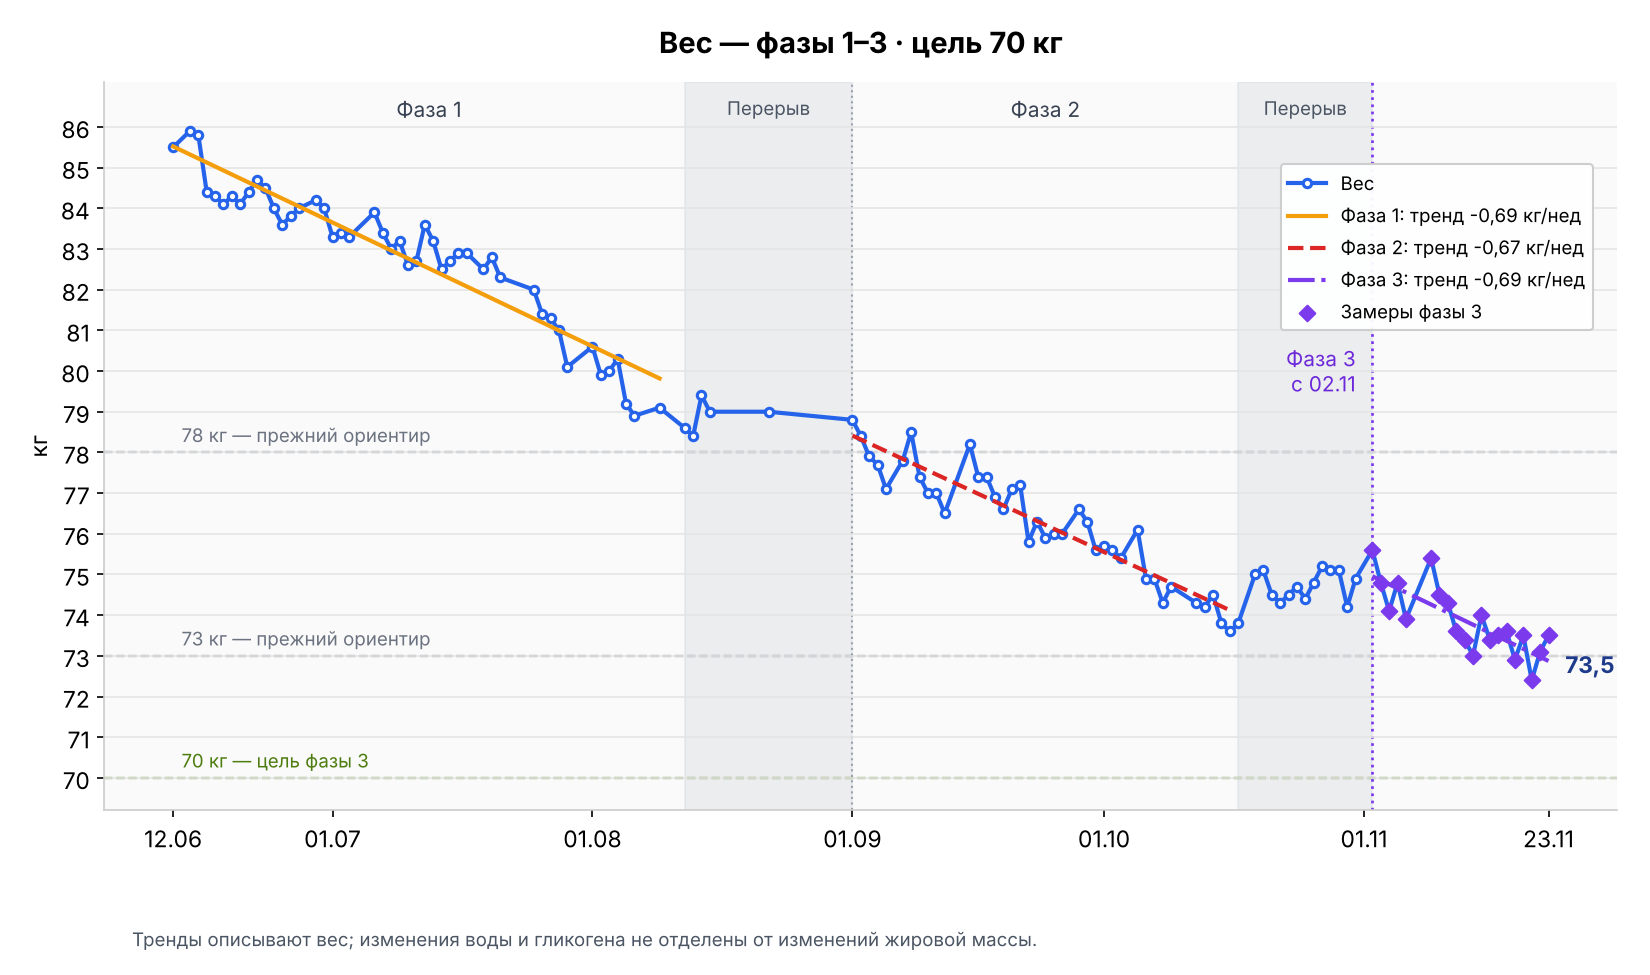
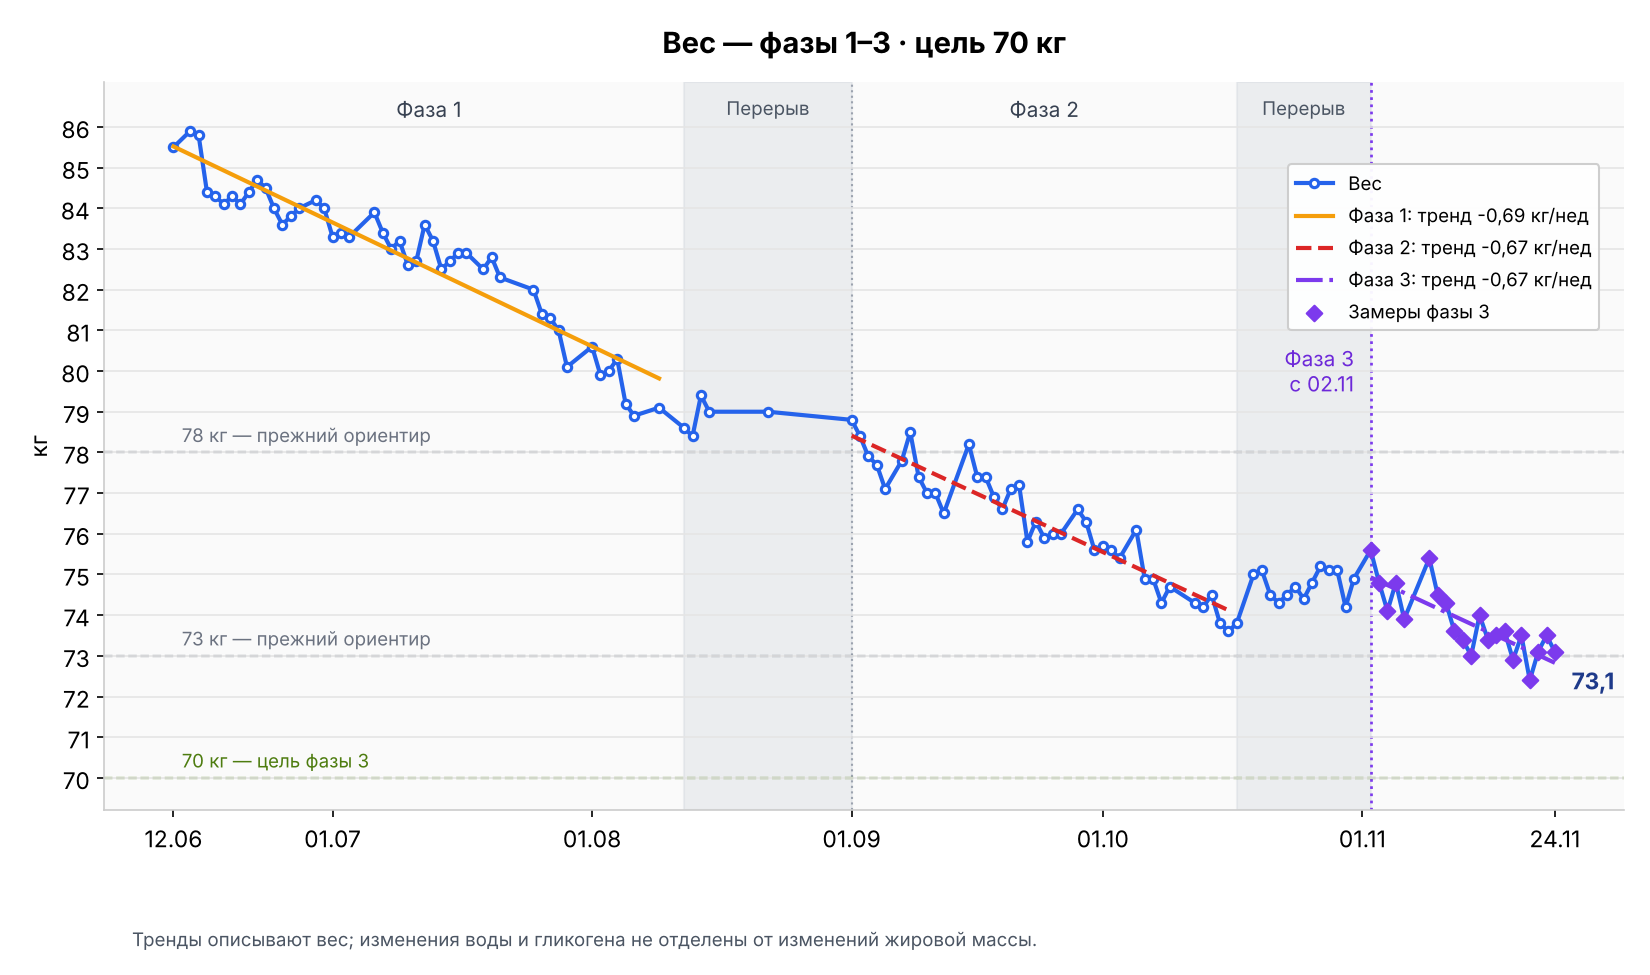
Вес 24.11: 73,1 кг; закрыт день 23.11
−0,4 кг к 23.11. День 23.11 отмечен завершённым (~1946 ккал).
Графики перестроены.

Claude-Session: https://claude.ai/code/session_01BcPogZpufV1jxrQv9Sbikk

diff --git a/health/журнал-еды.md b/health/журнал-еды.md
@@ -11,7 +11,7 @@
 
 | Дата | Кратко | Ккал | Белок |
 |---|---|---|---|
-| 23.11 (пн) | фаза 3, день 22 · цель 1900 ккал · утром 73,5 · завтрак курица с песто 200 г + яблоки 387 г + мандарины 125 г + молоко 2,5% 91 г + овощной микс 358 г / молоко 2,5% 57 г / обед мандарины 158 г + яблоки 244 г + апельсины 169 г + курица с песто 153 г + микс овощей 376 г / флэт уайт 250 мл на банановом молоке / ужин молоко 1% 115 г + куриное филе 200 г + овощная смесь 362 г / мандарины 132 г + яблоки 160 г (день идёт) | ~1946＋ | ~177＋ г |
+| 23.11 (пн) | фаза 3, день 22 · цель 1900 ккал · утром 73,5 · завтрак курица с песто 200 г + яблоки 387 г + мандарины 125 г + молоко 2,5% 91 г + овощной микс 358 г / молоко 2,5% 57 г / обед мандарины 158 г + яблоки 244 г + апельсины 169 г + курица с песто 153 г + микс овощей 376 г / флэт уайт 250 мл на банановом молоке / ужин молоко 1% 115 г + куриное филе 200 г + овощная смесь 362 г / мандарины 132 г + яблоки 160 г · день завершён, +46 к цели | ~1946 | ~177 г |
 | 22.11 (вс) | фаза 3, день 21 · цель 1900 ккал · утром 73,1 · 🏋 зал, спина + трицепс, средняя неделя · завтрак молоко 2,5% 76 г + апельсины 155 г + яблоки 278 г + хурма «Шарон» 186 г + куриное филе 224 г + брокколи и цветная капуста 333 г / молоко 2,5% 100 г + ещё 200 г / куриное филе 178 г / хурма 300 г / брокколи и цветная капуста 331 г / ужин молоко 2,5% 201 г + брокколи и цветная капуста 322 г + 2 варёных яйца / молоко 2,5% 100 г / ещё брокколи и цветная капуста 320 г · день завершён, ровно в цель | ~1897 | ~176 г |
 | 21.11 (сб) | фаза 3, день 20 · суббота, потолок 2500 ккал · утром 72,4 (минимум плана) · 🏋 зал, ноги + плечи, лёгкая неделя: жим ногами 100×20 · «Латте Попкорн» 324 г / завтрак куриное филе 200 г + молоко 1,5% 171 г + брокколи 344 г + 2 варёных яйца / высокобелковое молоко 450 г / куриное филе 190 г / молоко 1,5% 140 г + овощи 367 г / молоко 1,5% 322 г / [ВиТ] раф 300 мл / яблоки 403 г + апельсины 300 г / помидоры 200 г / ещё яблоки 280 г · день завершён, ~68 до субботнего потолка; неделя +113 | ~2432 | ~207 г |
 | 20.11 (пт) | фаза 3, день 19 · цель 1900 ккал · утром 73,5 · завтрак яблоки 201 г + мандарины 120 г + куриное филе 189 г + 2 варёных яйца / сливки 10% 40 г / [Делимарше] салат «Весна» ~100 г + рассольник овощной + курица по-абхазски + гречка зелёная / курица с запечённым чесноком 336 г / ужин джекфрут 78 г + мандарины 68 г + сливы 186 г + яблоки 117 г / ещё джекфрут 73 г / ещё яблоки 142 г / мандарины 186 г · день завершён, +106 к цели | ~2006 | ~178 г |
@@ -169,7 +169,7 @@
 
 ## 23 ноября (пн) — фаза 3, день 22 · утром 73,5
 
-День в процессе. **Цель — 1900 ккал** (обычный день). Рабочий ориентир БЖУ: **Б 150 (140–160) / Ж 60 / У 190 г**.
+День завершён. **Цель — 1900 ккал** (обычный день). Рабочий ориентир БЖУ: **Б 150 (140–160) / Ж 60 / У 190 г**.
 
 | Приём | Что | Ккал | Б | Ж | У |
 |---|---|---|---|---|---|
@@ -193,7 +193,7 @@
 | | *ужин итого* | *~418* | *~59,5* | *~4,8* | *~36,2* |
 | Фрукты | мандарины 132 г (38/100г, Б 0,8 / Ж 0,2 / У 7,5; очищенный вес) | ~50 | ~1,1 | ~0,3 | ~9,9 |
 | | яблоки 160 г (~47/100г, Б ~0,4 / Ж ~0,4 / У ~9,8; очищенный вес) | ~75 | ~0,6 | ~0,6 | ~15,7 |
-| **Пока за день** | | **~1946** | **~177,3** | **~28,2** | **~239,5** |
+| **Итого** | | **~1946** | **~177,3** | **~28,2** | **~239,5** |
 
 Заметка: курица с соусом песто 200 г по КБЖУ пользователя 126/24,1/3,2/0,2 — 252,000 ккал / Б 48,200 / Ж 6,400 / У 0,400 г; яблоки 387 г (47/0,4/0,4/9,8) — 181,890 / 1,548 / 1,548 / 37,926; мандарины 125 г (38/0,8/0,2/7,5) — 47,500 / 1,000 / 0,250 / 9,375; молоко 2,5% 91 г (53,3/3/2,5/4,7) — 48,503 / 2,730 / 2,275 / 4,277; овощной микс 358 г — этикетка не передана, КБЖУ похожей смеси от 17.11 (30/2,5/0/5,5) — 107,400 / 8,950 / 0 / 19,690. Завтрак всего 637,293 ккал / Б 62,428 / Ж 10,473 / У 71,668 г. До цели 1900 ккал осталось 1262,707 ккал; до белка 140–160 г — 77,572–97,572 г; до Ж 60 — 49,527 г; до У 190 — 118,332 г. Добавлено молоко 2,5% 57 г (53,3/3/2,5/4,7) — 30,381 ккал / Б 1,710 / Ж 1,425 / У 2,679 г. За день 667,674 ккал / Б 64,138 / Ж 11,898 / У 74,347 г. До цели 1900 ккал осталось 1232,326 ккал; до белка 140–160 г — 75,862–95,862 г; до Ж 60 — 48,102 г; до У 190 — 115,653 г. Обед: мандарины 158 г (38/0,8/0,2/7,5) — 60,040 ккал / Б 1,264 / Ж 0,316 / У 11,850 г; яблоки 244 г (47/0,4/0,4/9,8) — 114,680 / 0,976 / 0,976 / 23,912; апельсины 169 г (43/0,9/0,2/8,1) — 72,670 / 1,521 / 0,338 / 13,689; куриная грудка 153 г — по словам пользователя та же, что на завтраке, то есть курица с соусом песто (126/24,1/3,2/0,2) — 192,780 / 36,873 / 4,896 / 0,306; микс овощей 376 г по КБЖУ пользователя 45/2,7/0,2/8,2 — 169,200 / 10,152 / 0,752 / 30,832. Обед всего 609,370 ккал / Б 50,786 / Ж 7,278 / У 80,589 г. За день 1277,044 ккал / Б 114,924 / Ж 19,176 / У 154,936 г. До цели 1900 ккал осталось 622,956 ккал; до белка 140–160 г — 25,076–45,076 г; до Ж 60 — 40,824 г; до У 190 — 35,064 г. Добавлен флэт уайт 250 мл на банановом молоке — по прежней оценке 01.11 (220 мл ≈ 110 ккал / Б ~1 / Ж ~3 / У ~20), пересчитано на 250 мл: ~125,0 ккал / Б ~1,14 / Ж ~3,41 / У ~22,73 г. За день ~1402,0 ккал / Б ~116,1 / Ж ~22,6 / У ~177,7 г. До цели 1900 ккал осталось ~498,0 ккал; до белка 140–160 г — ~23,9–43,9 г; до Ж 60 — ~37,4 г; до У 190 — ~12,3 г. Ужин: молоко 1% 115 г по КБЖУ пользователя 39,8/3/1/4,7 — 45,770 ккал / Б 3,450 / Ж 1,150 / У 5,405 г; куриное филе 200 г (113,8/24,4/1,8/0) — 227,600 / 48,800 / 3,600 / 0; овощная смесь 362 г по КБЖУ пользователя 40/2/—/8,5 (жиры не указаны — приняты 0) — 144,800 / 7,240 / 0 / 30,770. Ужин всего 418,170 ккал / Б 59,490 / Ж 4,750 / У 36,175 г. За день ~1820,2 ккал / Б ~175,6 / Ж ~27,3 / У ~213,9 г. До цели 1900 ккал осталось ~79,8 ккал; белок выше диапазона 140–160 г на ~15,6 г; до Ж 60 — ~32,7 г; углеводы выше ориентира 190 г на ~23,9 г. Добавлены мандарины 132 г (38/0,8/0,2/7,5) — 50,160 ккал / Б 1,056 / Ж 0,264 / У 9,900 г и яблоки 160 г (47/0,4/0,4/9,8) — 75,200 / 0,640 / 0,640 / 15,680. За день ~1945,6 ккал / Б ~177,3 / Ж ~28,2 / У ~239,5 г. Цель 1900 ккал превышена на ~45,6 ккал; белок выше диапазона на ~17,3 г; до Ж 60 — ~31,8 г; углеводы выше ориентира на ~49,5 г.
 

diff --git a/health/журнал-веса.md b/health/журнал-веса.md
@@ -161,6 +161,7 @@
 | 21 ноября | 72,4 кг | сб; **фаза 3, день 20**. −1,1 кг к предыдущему замеру 20.11 (вода после тренировки 19.11 ушла); **новый минимум плана** (прежний — 72,9 19.11); −3,2 кг от старта фазы 3 (75,6 кг, 02.11); −13,1 кг от стартовой оценки 85,5 кг. Накануне ~2006 ккал |
 | 22 ноября | 73,1 кг | вс; **фаза 3, день 21**. +0,7 кг к предыдущему замеру 21.11 после субботы ~2432 ккал: тренировка ног и плеч на 20 повторений, ~1,2 кг фруктов, ~0,7 кг овощей, ~1 л молока, ~244 г углеводов (гликоген с водой). Ниже поддержания — не жир; −2,5 кг от старта фазы 3 (75,6 кг, 02.11); −12,4 кг от стартовой оценки 85,5 кг. Среднее недели 16–22.11 — 73,20 кг (неделя 09–15.11 — 74,03) |
 | 23 ноября | 73,5 кг | пн; **фаза 3, день 22**. +0,4 кг к предыдущему замеру 22.11 — вода: накануне тренировка спины и трицепса (средняя неделя), ~1,3 кг брокколи и цветной капусты и ~0,9 кг фруктов (объём в ЖКТ); калории ~1897 — в цель; −2,1 кг от старта фазы 3 (75,6 кг, 02.11); −12,0 кг от стартовой оценки 85,5 кг |
+| 24 ноября | 73,1 кг | вт; **фаза 3, день 23**. −0,4 кг к предыдущему замеру 23.11; накануне ~1946 ккал, жиры ~28 г; −2,5 кг от старта фазы 3 (75,6 кг, 02.11); −12,4 кг от стартовой оценки 85,5 кг |
 | 7 ноября | — | сб; **фаза 3, день 6**. Пользователь забыл взвеситься; замер пропущен |
 
 ### График
